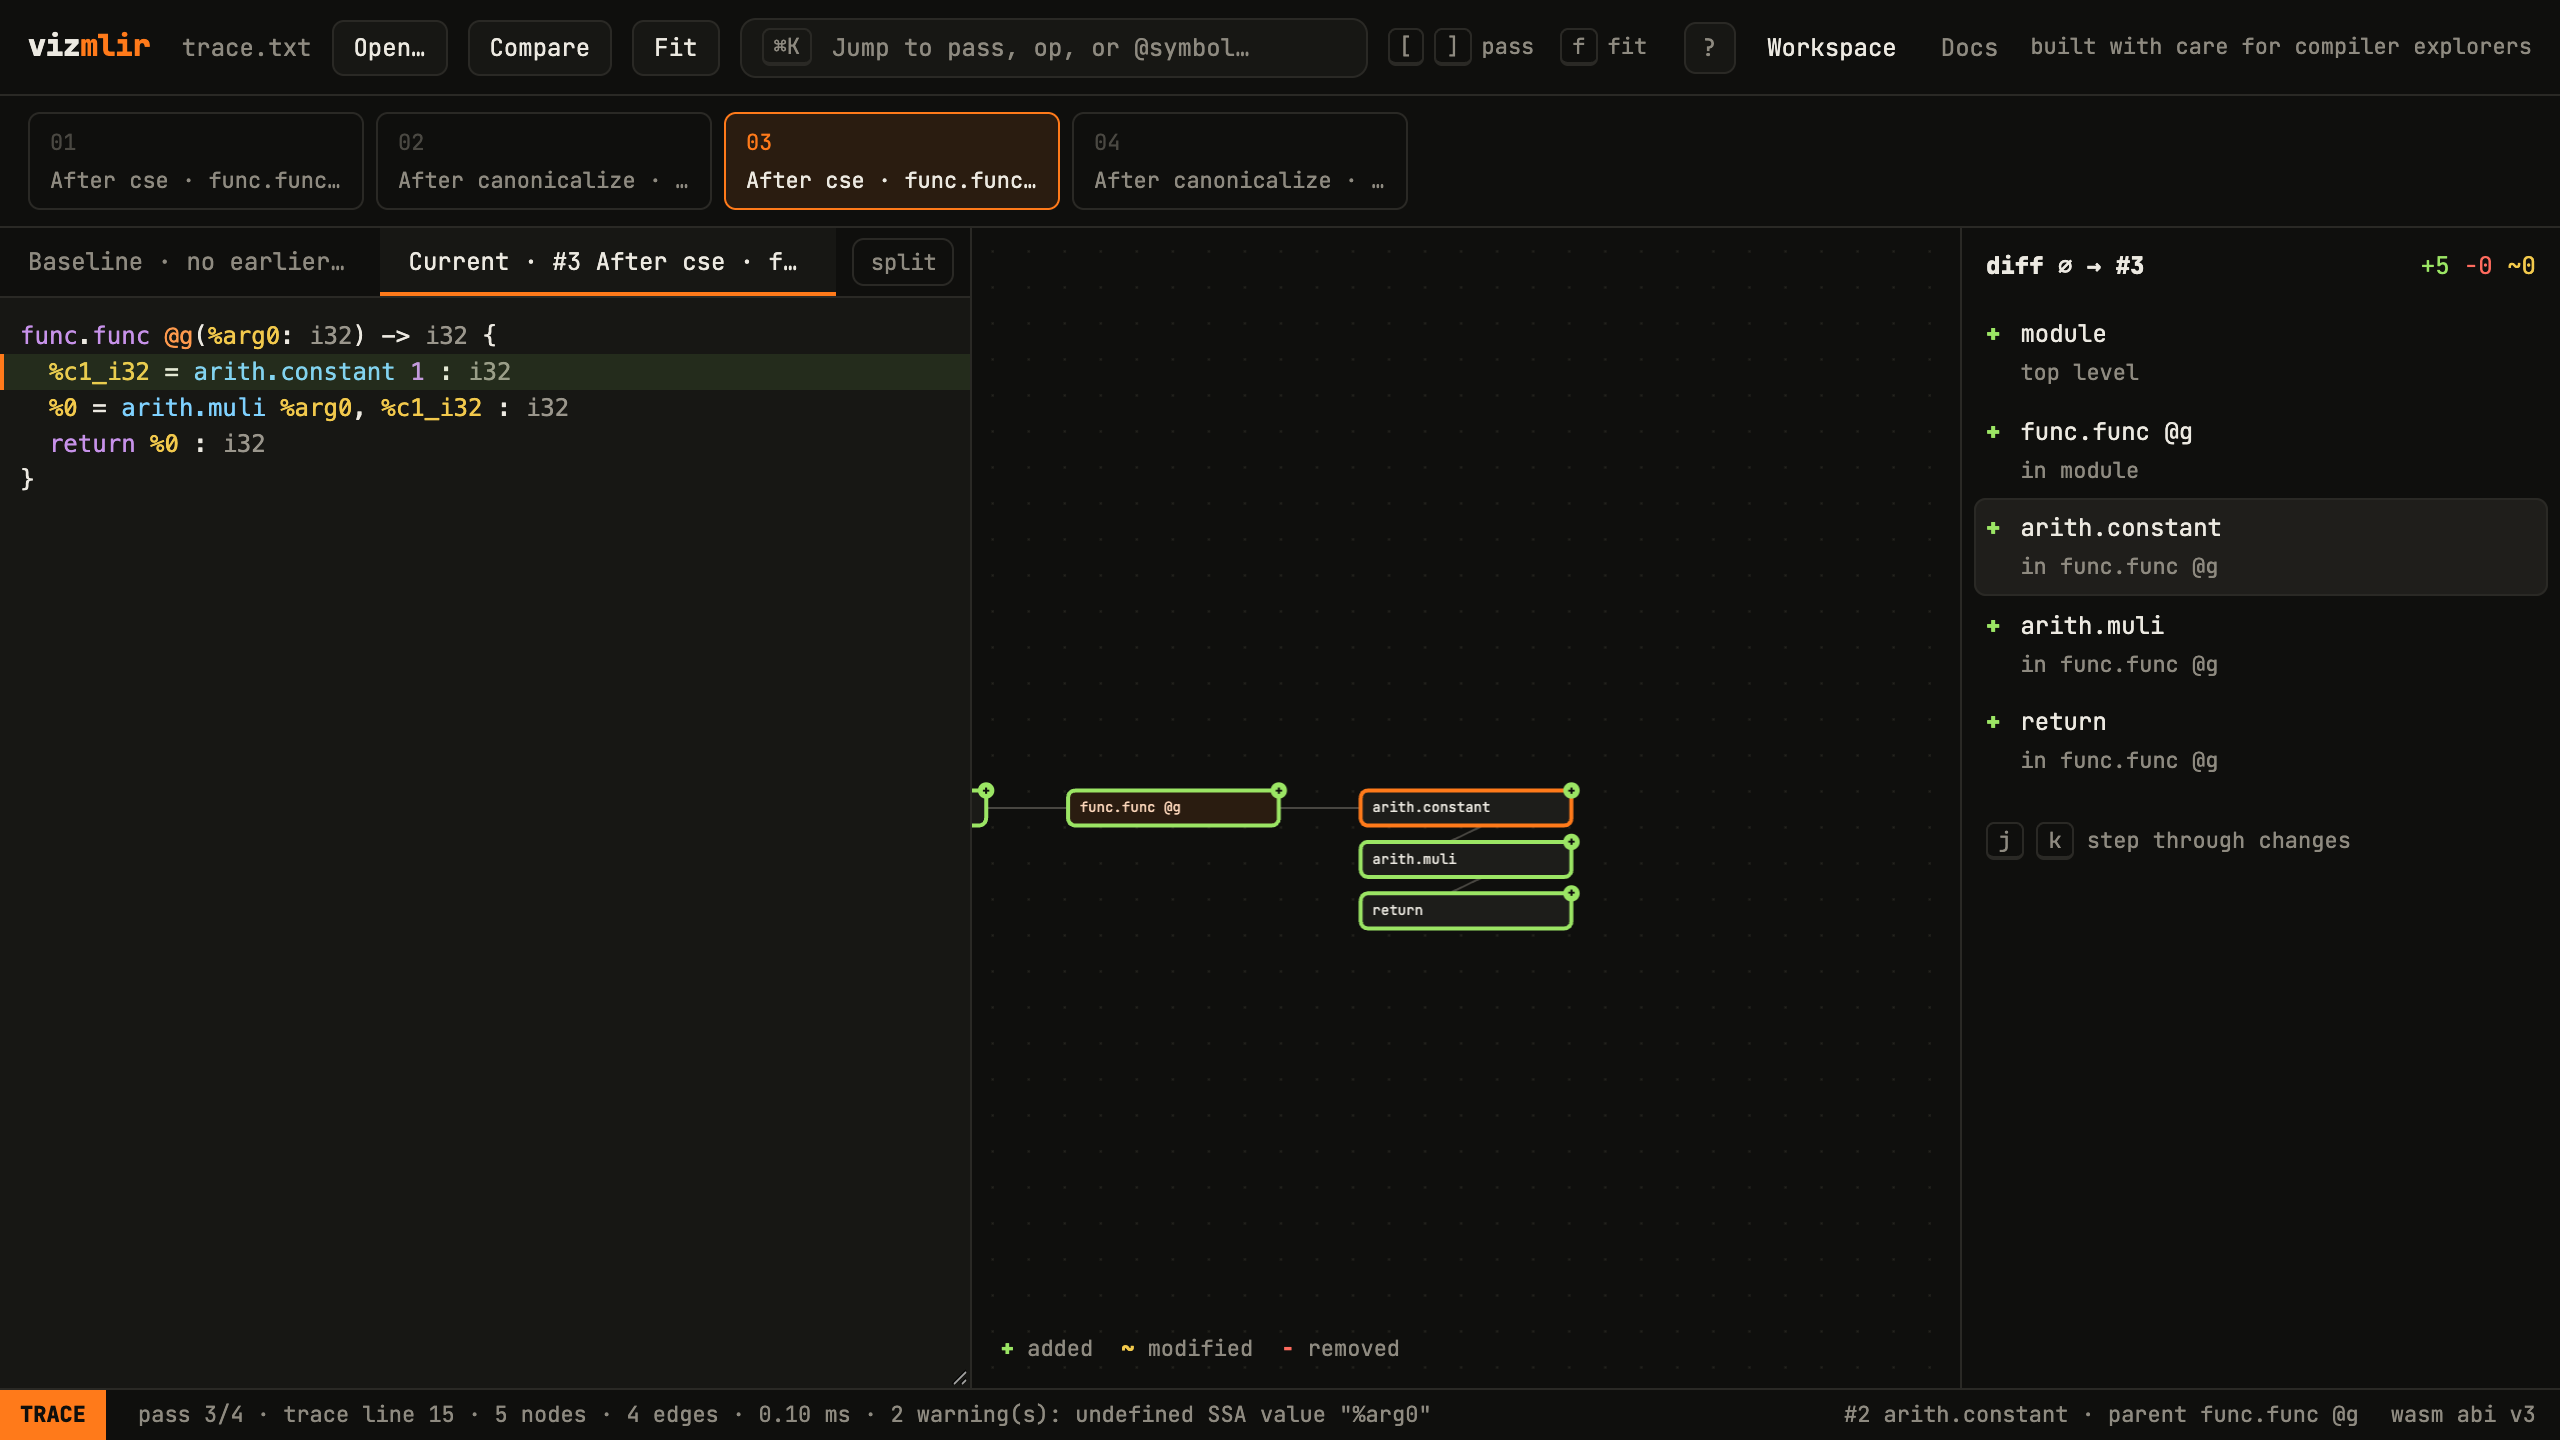
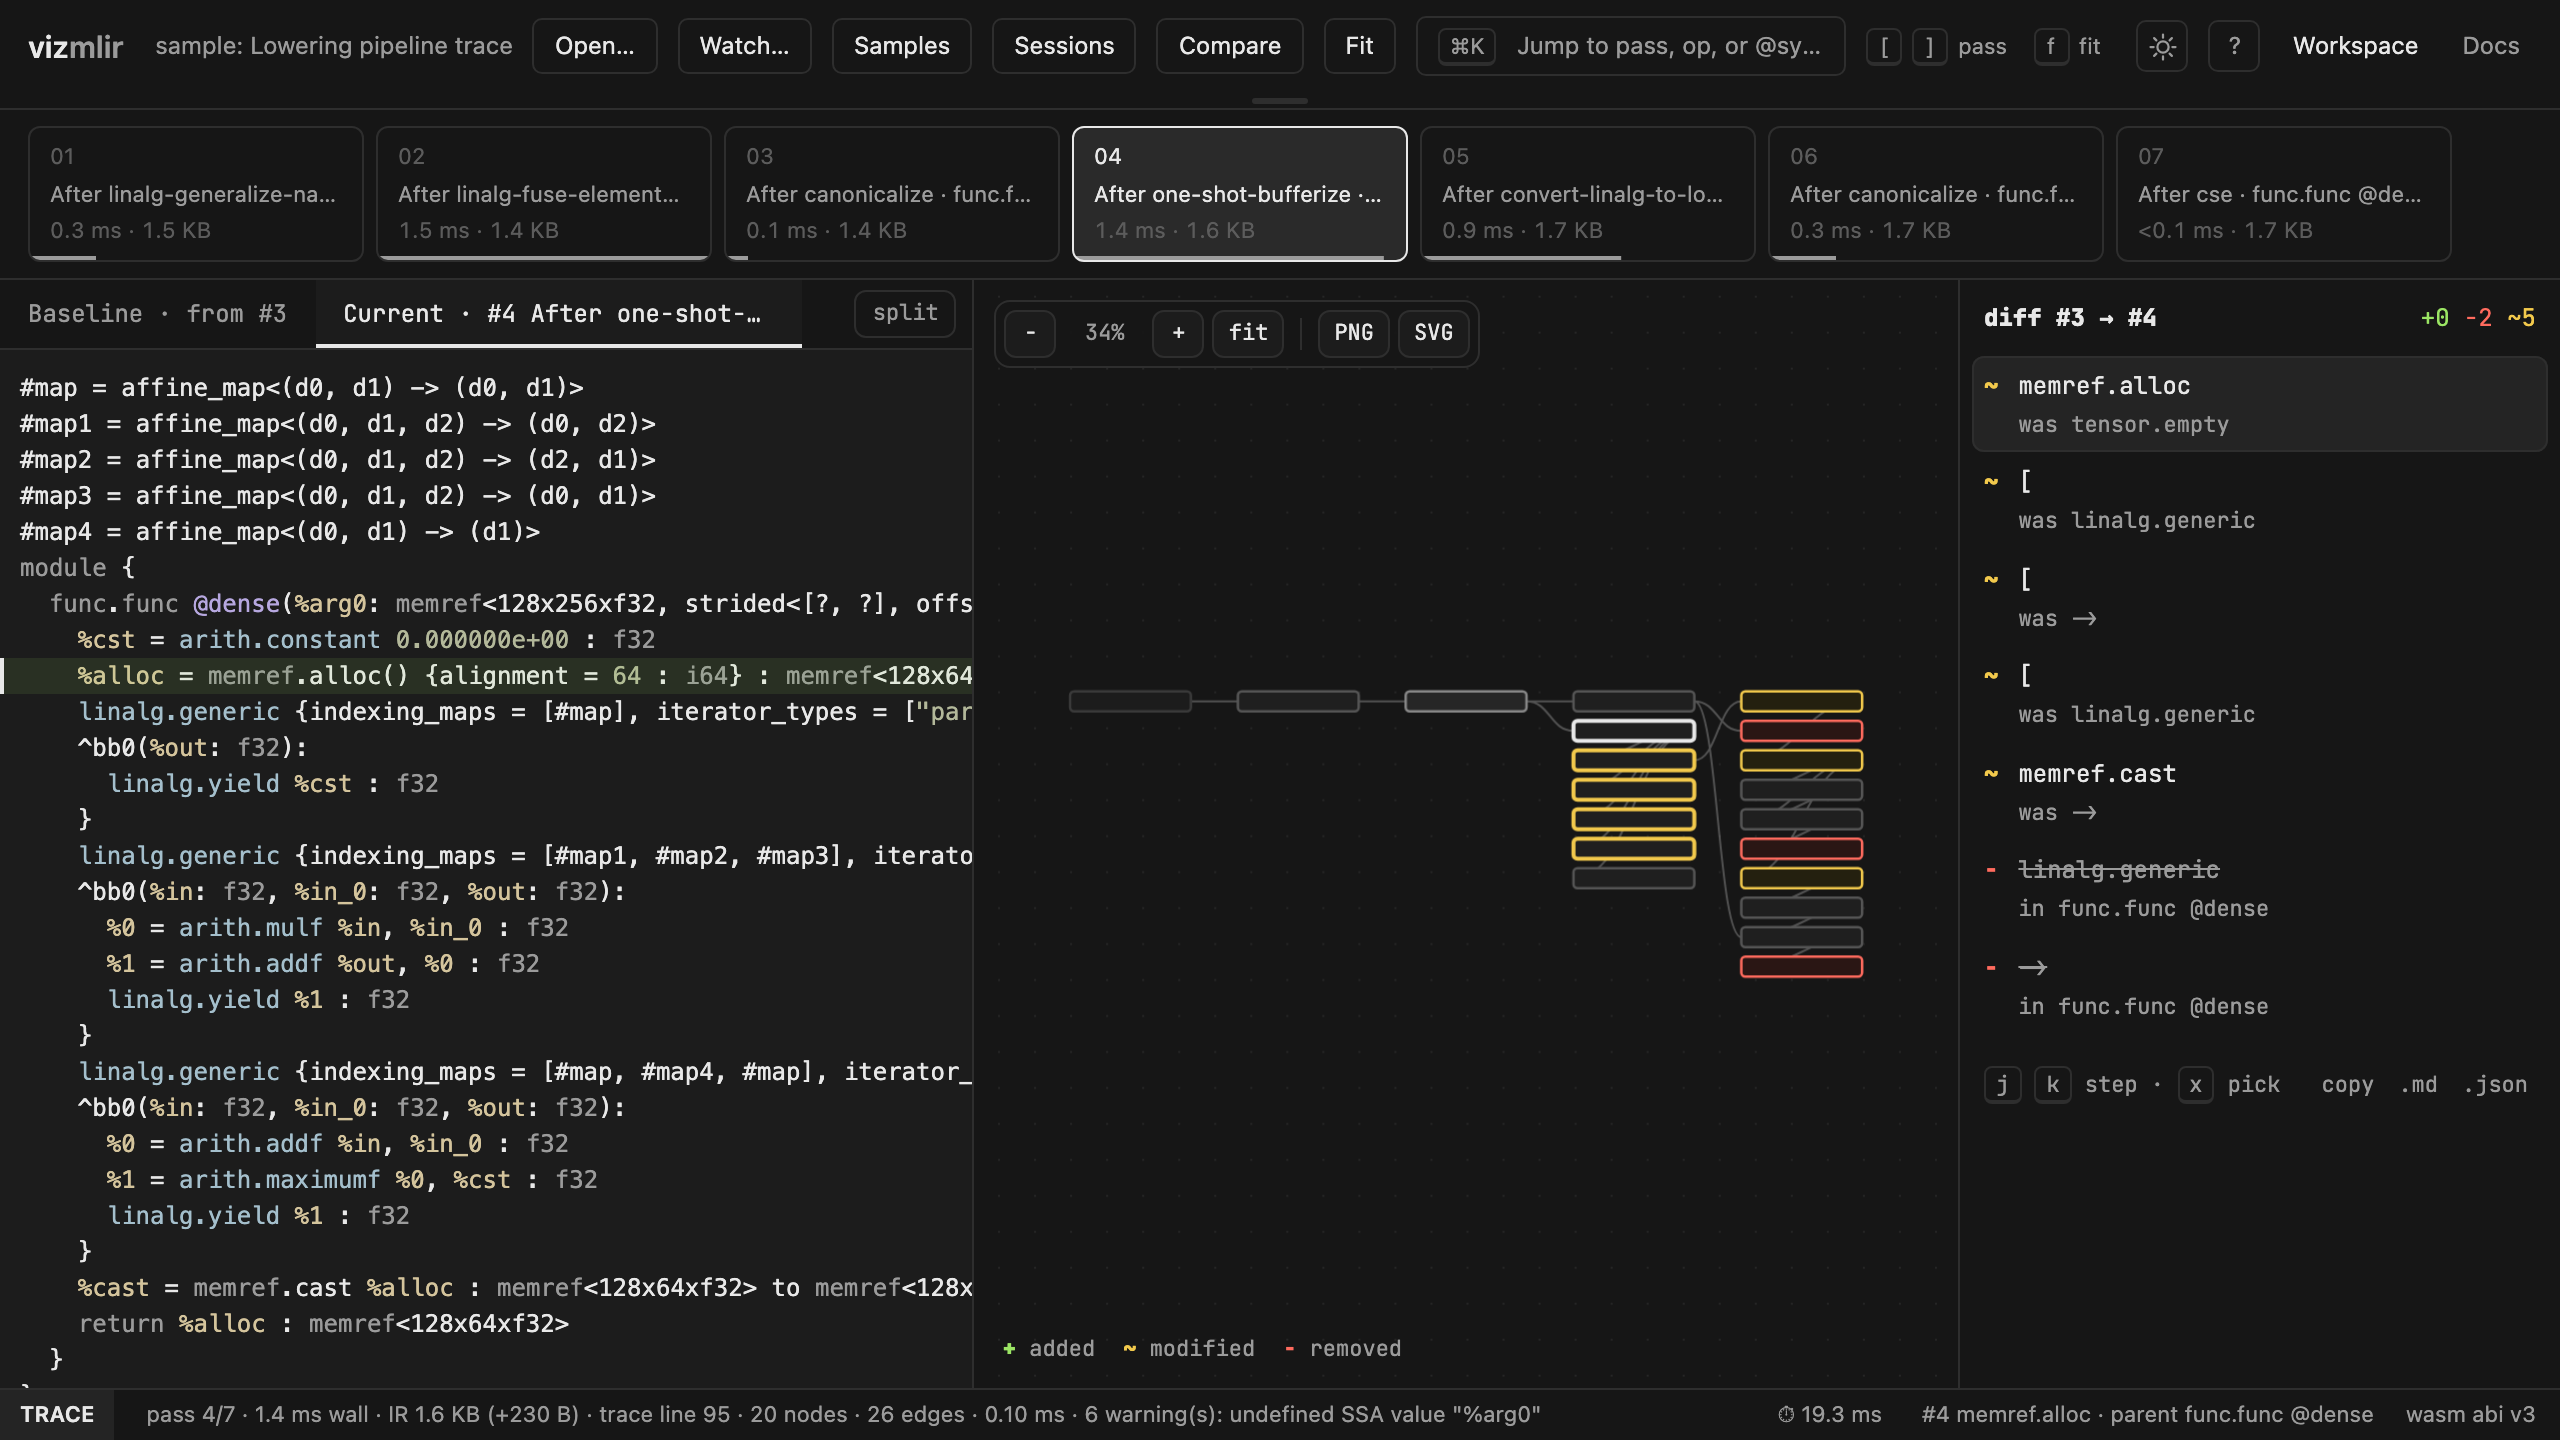
Refresh README screenshots and keep the top bar on one row
Retake the workspace and docs screenshots with the neutral theme. At
1280px the top bar wrapped Docs onto a second row; the palette trigger
now shrinks first and truncates its placeholder instead.

diff --git a/index.html b/index.html
@@ -626,7 +626,8 @@
       }
       .palette-trigger {
         display: flex;
-        flex: 1 1 auto;
+        /* Shrink before the bar wraps onto a second row. */
+        flex: 1 1 180px;
         align-items: center;
         gap: 10px;
         max-width: 460px;
@@ -637,6 +638,14 @@
         color: var(--dim);
         white-space: nowrap;
         border-radius: 8px;
+      }
+      .palette-trigger kbd {
+        flex: 0 0 auto;
+      }
+      .palette-trigger span {
+        min-width: 0;
+        overflow: hidden;
+        text-overflow: ellipsis;
       }
       .icon-btn {
         width: 26px;
